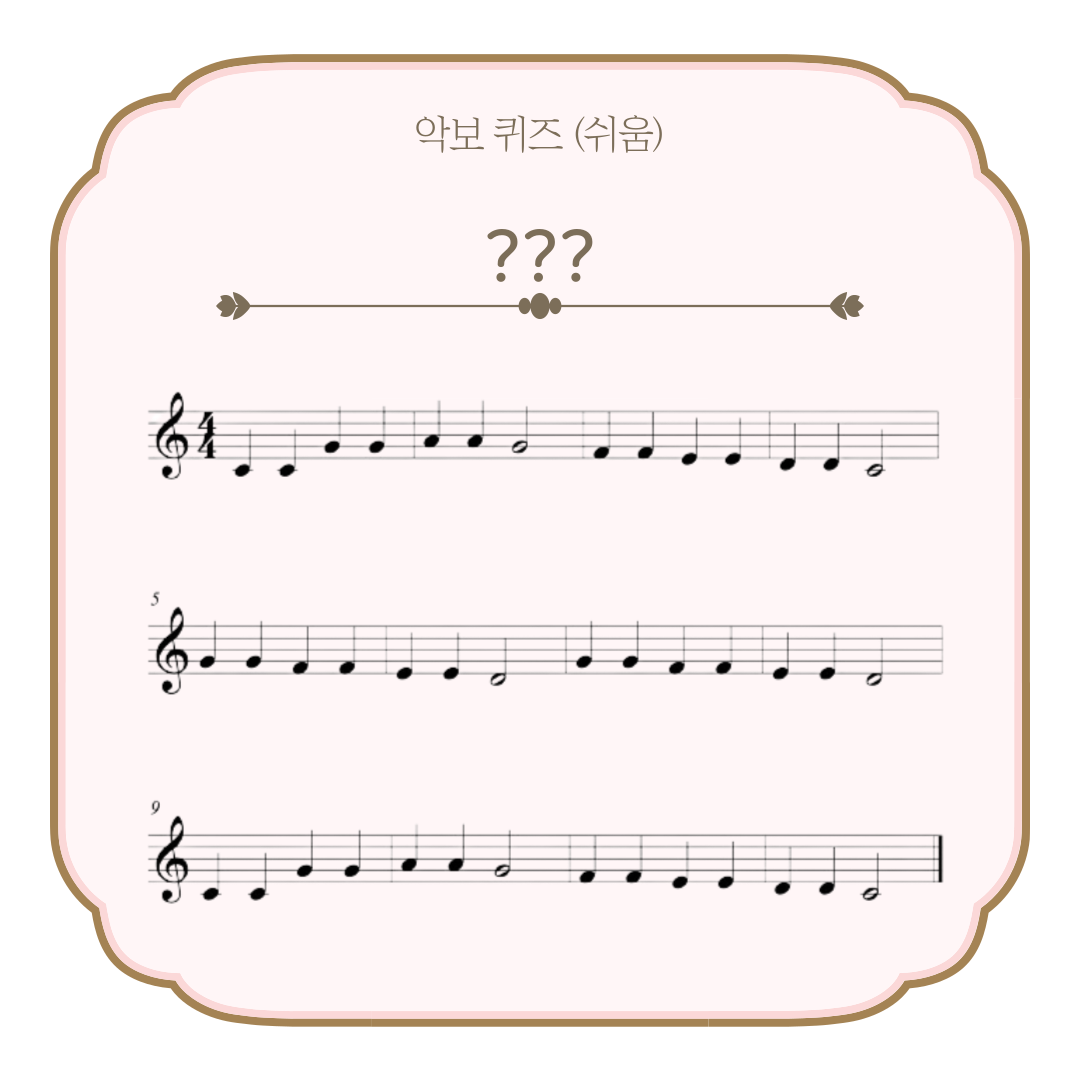
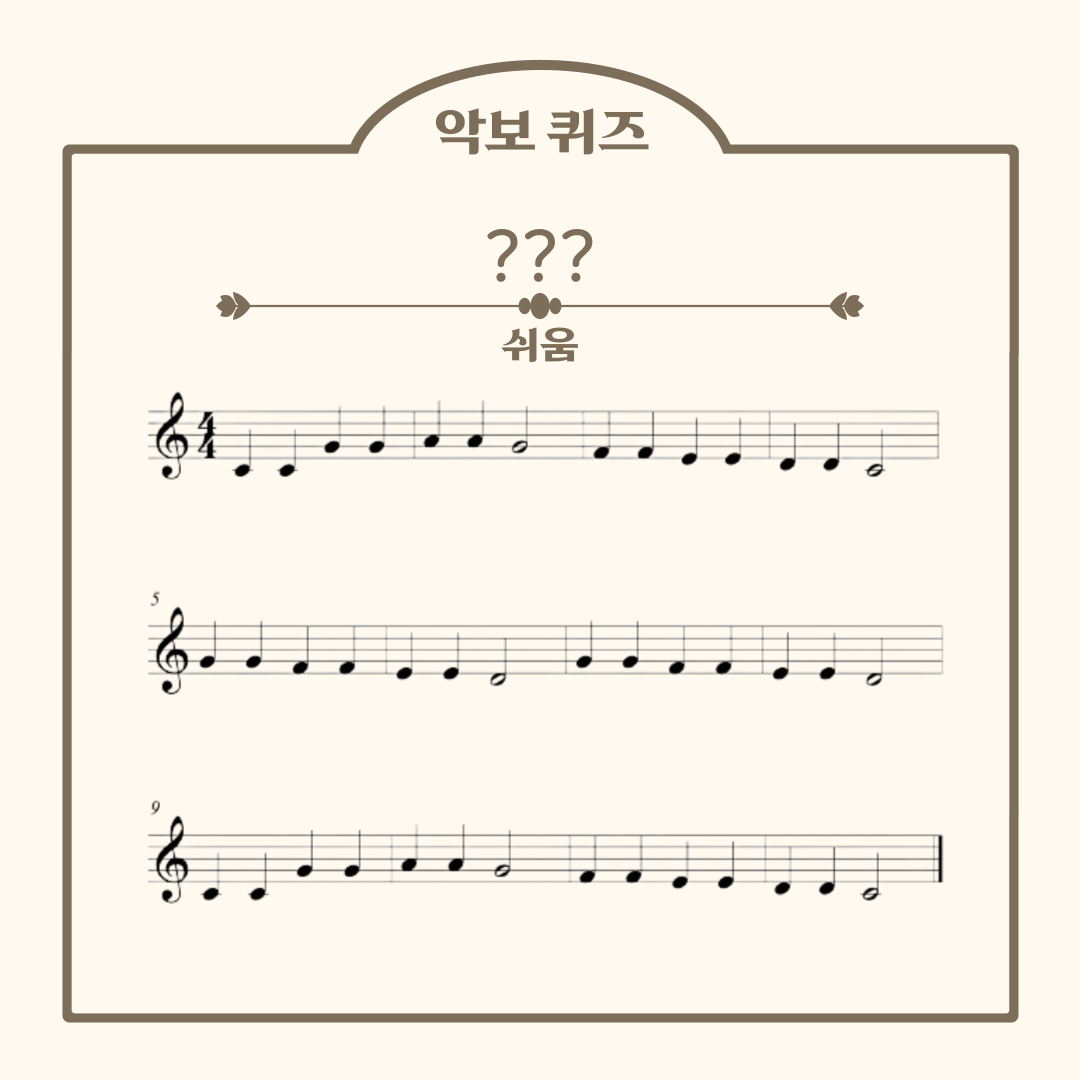
악보 퀴즈 썸네일 수정

Changed region(s): [[0.0306, 0.0306, 0.9778, 0.9778], [0.4583, 0.3056, 0.55, 0.3361]]

diff --git a/src/Components/quiz/QuizGame.js b/src/Components/quiz/QuizGame.js
@@ -146,11 +146,17 @@ const QuizGame = (props) => {
           </>
         ) : (
           <>
-            <Title>LV.{quizOrder}</Title>
+            
             {quizOrder === 0 ? (
-              <ThumbnailImg src={`${process.env.REACT_APP_KUPHIL_PUBLIC_URL}/images/thumbnail/quiz.jpg`} />
+              <>
+                <Title>악보 퀴즈 LV.{quizOrder}</Title>
+                <ThumbnailImg src={`${process.env.REACT_APP_KUPHIL_PUBLIC_URL}/images/thumbnail/quiz${quizId}.png`} />
+              </>
             ) : (
-              <QuizImg src={`${process.env.REACT_APP_KUPHIL_PUBLIC_URL}/images/quiz/${quizId}/${quizOrder}.png`} />
+              <>
+                <Title>LV.{quizOrder}</Title>
+                <QuizImg src={`${process.env.REACT_APP_KUPHIL_PUBLIC_URL}/images/quiz/${quizId}/${quizOrder}.png`} />
+              </>
             )}
           </>
         )}
@@ -180,14 +186,15 @@ const Loading = styled.div`
 `;
 const Title = styled.p`
   font-size: 25px;
-  margin-bottom: 10px;
+  margin-bottom: 20px;
 `;
 const ThumbnailImg = styled.img`
   width: 300px;
   max-width: 100%;
   height: auto;
   border-radius: 15px;
-  box-shadow: 0px 2px 10px rgba(0, 0, 0, 0.2);`;
+  box-shadow: 0px 2px 10px rgba(0, 0, 0, 0.2);
+`;
 
 const QuizImg = styled.img`
   width: 800px;
